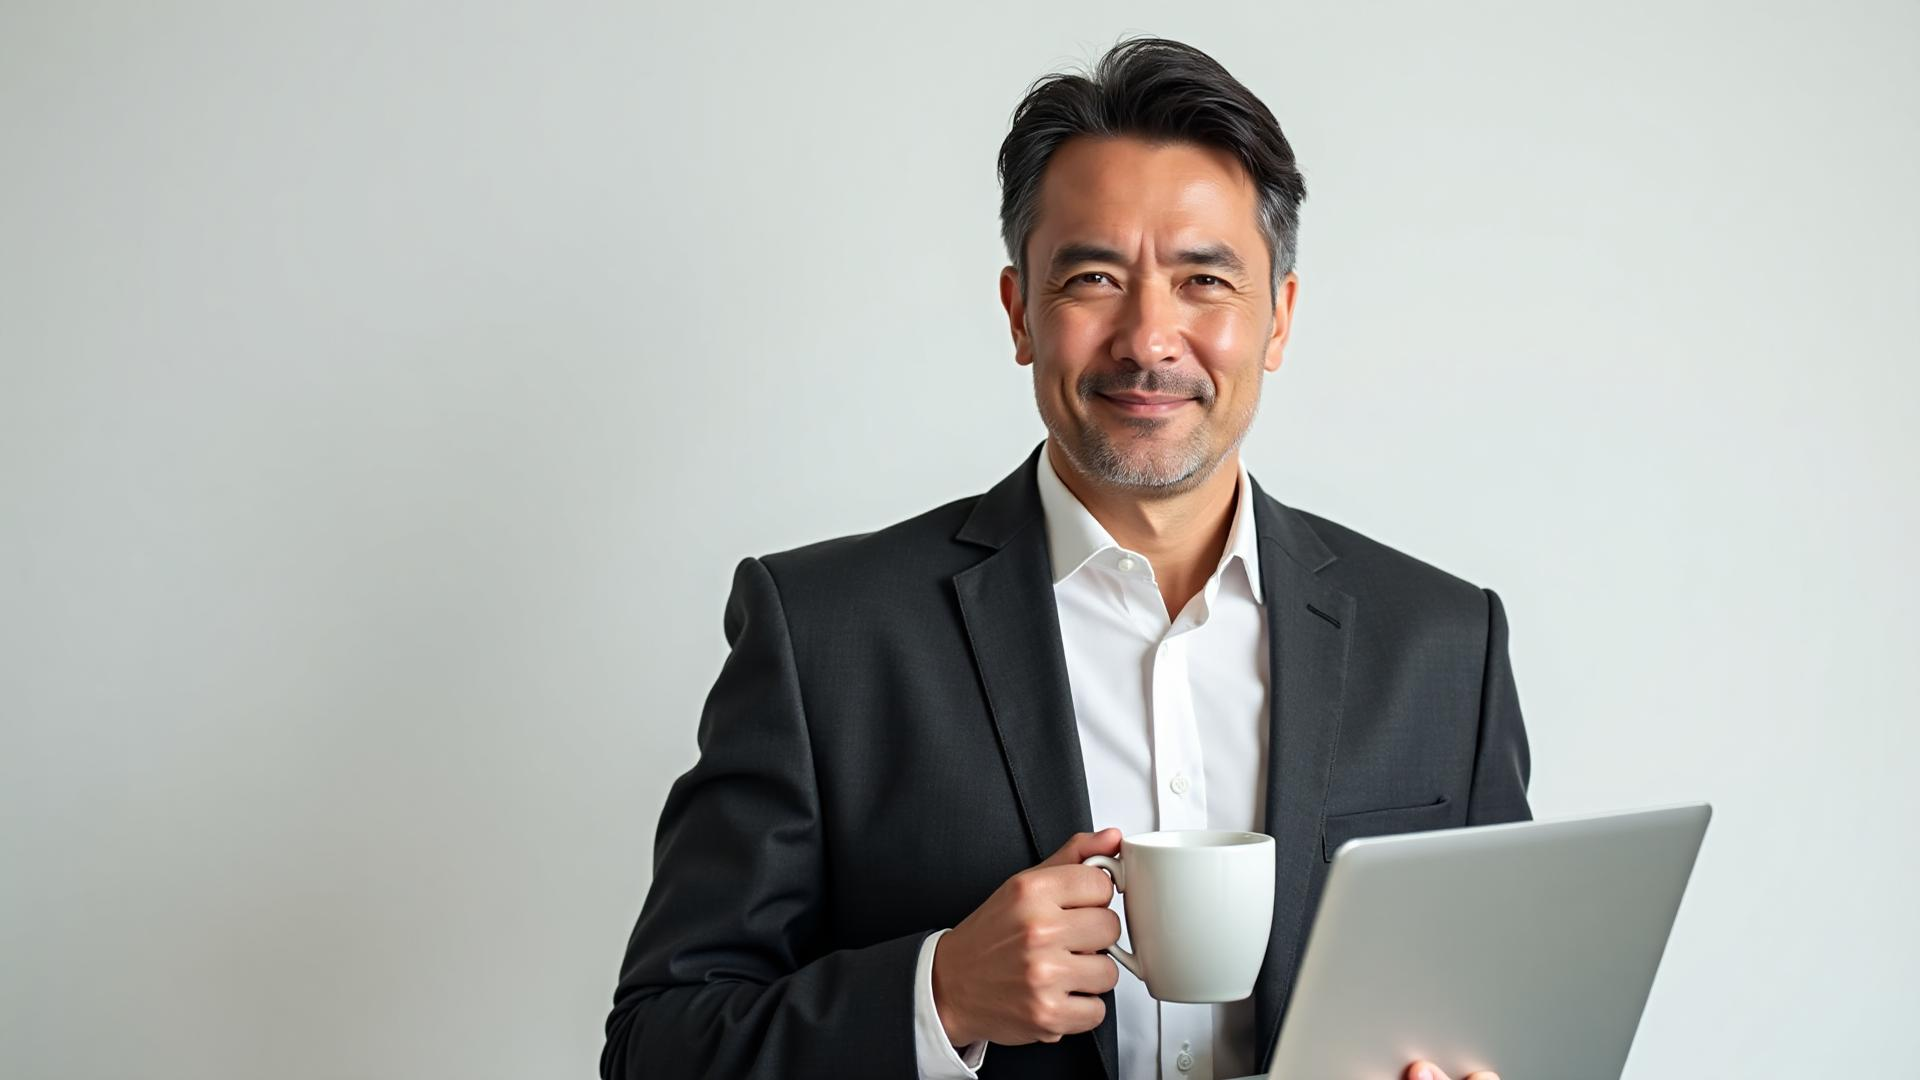
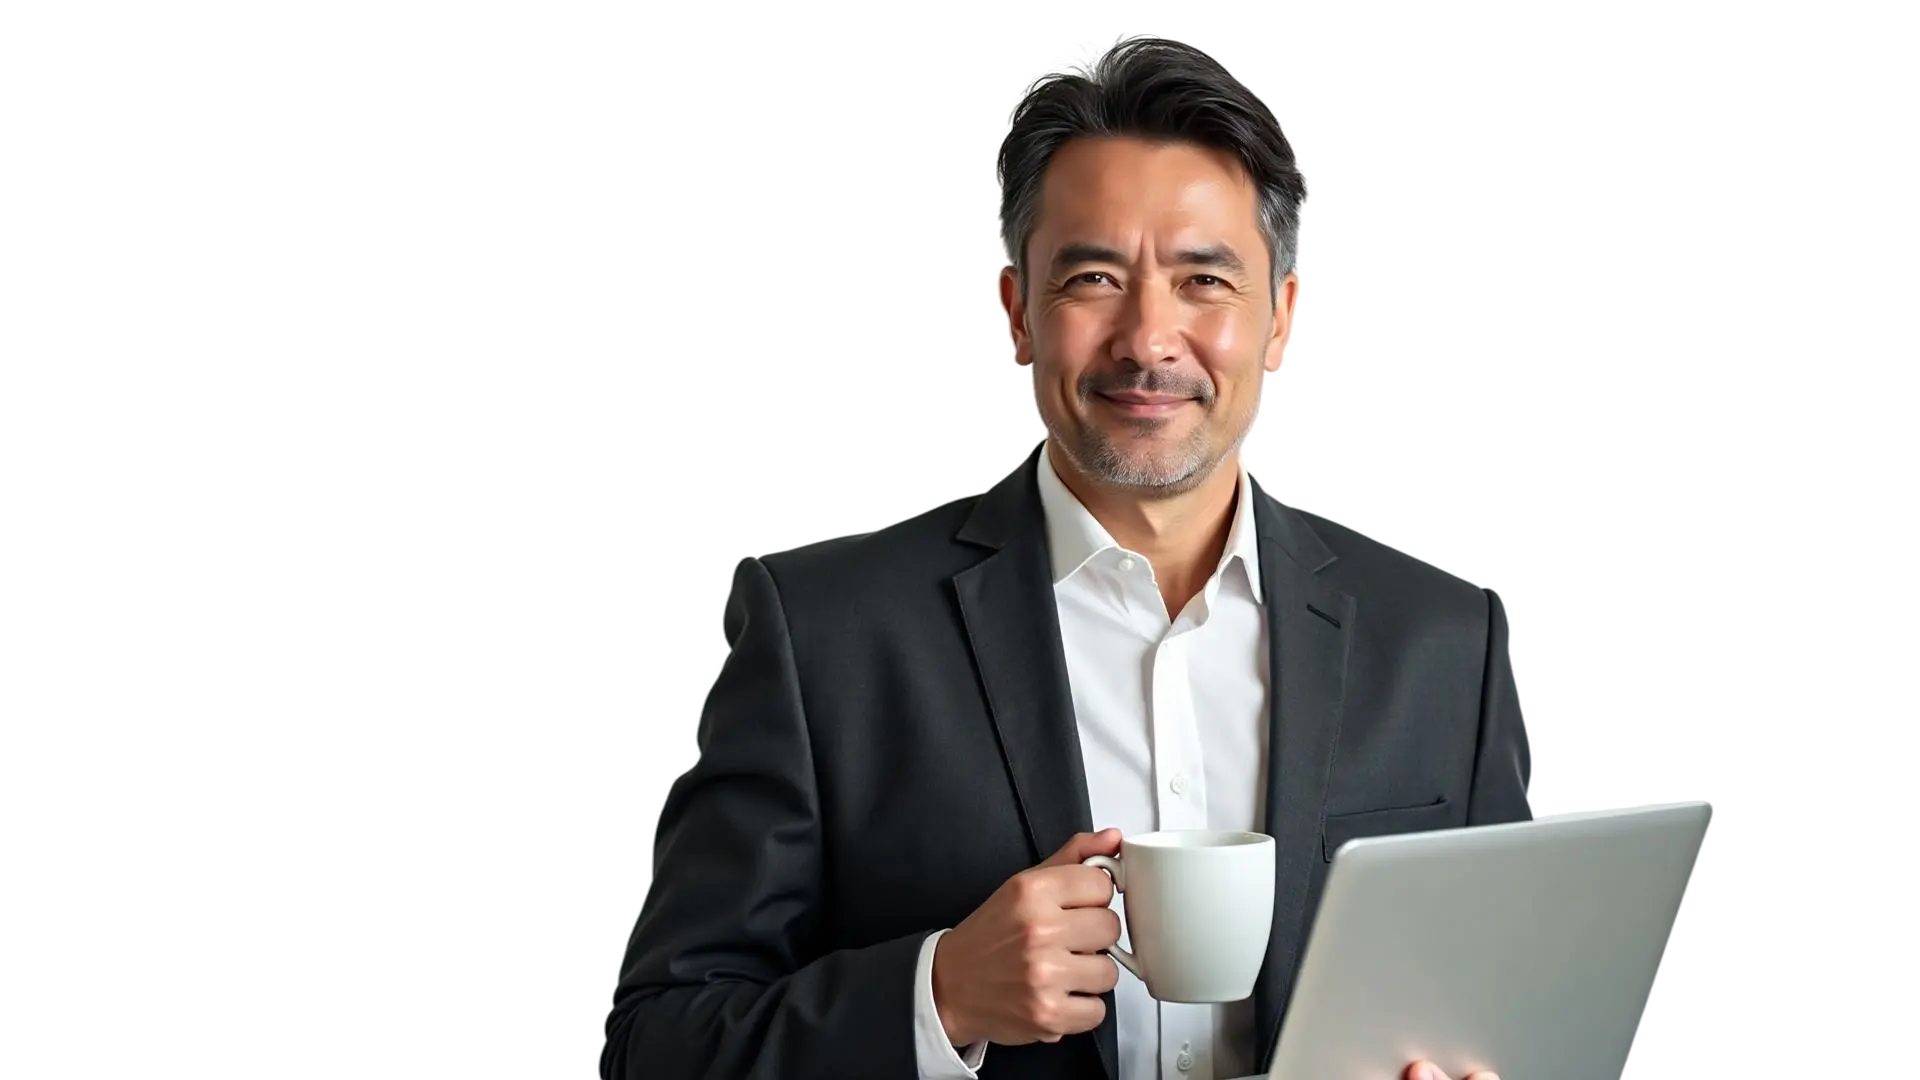
Update hero component layout and image
Adjust the hero section layout to a more balanced two-column design, changing the image and text proportions. Update the image container to allow for larger images and improved alignment. Replace the hero image with a new WebP format file, enhancing visual appeal and maintaining performance standards.

diff --git a/src/components/Hero.tsx b/src/components/Hero.tsx
@@ -14,9 +14,9 @@ export const Hero = () => {
 
   return (
     <section className="py-20 bg-[#F3F6F8]">
-      <div className="max-w-7xl mx-auto px-4">
+      <div className="max-w-[1600px] mx-auto px-8 lg:px-16 xl:px-20">
         {/* Two Column Grid */}
-        <div className="grid lg:grid-cols-[55%_45%] gap-8 lg:gap-12 items-center">
+        <div className="grid lg:grid-cols-[40%_60%] gap-8 lg:gap-12 items-start">
           
           {/* Left Column - Text Content */}
           <div className="space-y-8">
@@ -69,13 +69,13 @@ export const Hero = () => {
           </div>
 
           {/* Right Column - Image */}
-          <div className="flex justify-center lg:justify-end">
-            <div className="w-full max-w-md lg:max-w-lg relative">
+          <div className="flex justify-center lg:justify-end items-start lg:items-center">
+            <div className="w-full max-w-lg lg:max-w-2xl relative lg:mt-8">
               {/* Decorative accent behind image */}
               <DecorativeCheck />
               
               {/* Image card */}
-              <div className="relative bg-background rounded-xl shadow-[0_0_12px_rgba(0,0,0,0.06)] hover:scale-[1.02] transition-transform duration-300 overflow-hidden">
+              <div className="relative hover:scale-[1.02] transition-transform duration-300">
                 <img 
                   src={heroImage} 
                   alt="Confident business professional with laptop and ceramic coffee mug, representing trust and control in QA validation" 
